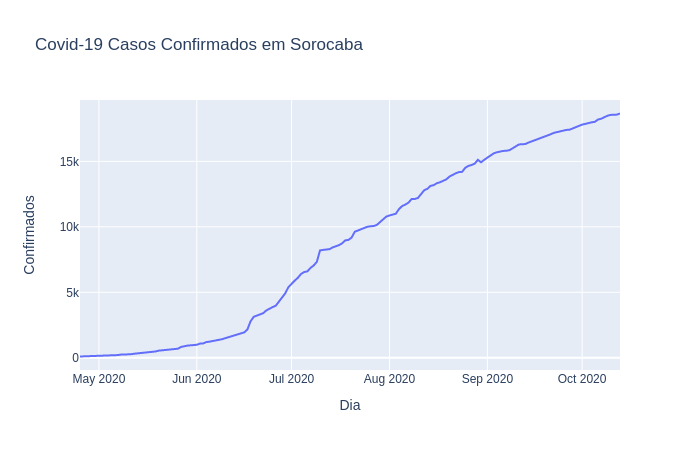
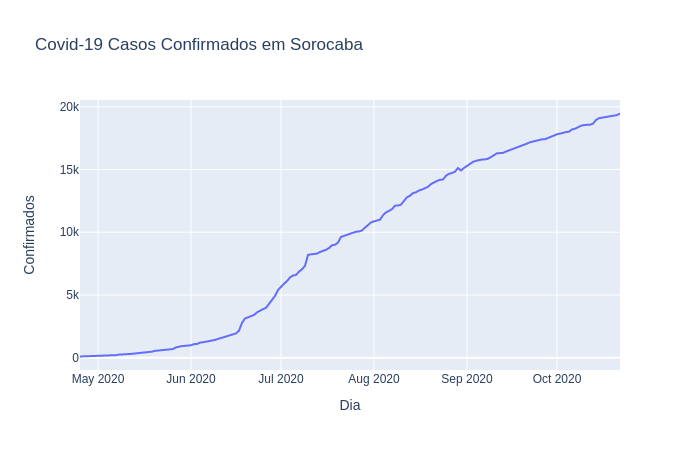
dados atualizados 22/10

diff --git a/README.md b/README.md
@@ -1,5 +1,5 @@
 ## Dados divulgados pela Prefeitura de Sorocaba sobre os casos de Covid-19
-### última atualização: 13/10/2020
+### última atualização: 22/10/2020
 
 Há uma planilha com os dados retirados das imagens divulgadas [AQUI](https://github.com/lucas-koiti/covid19-sorocaba/blob/master/dados/planilha_csv/dados.csv).
 
